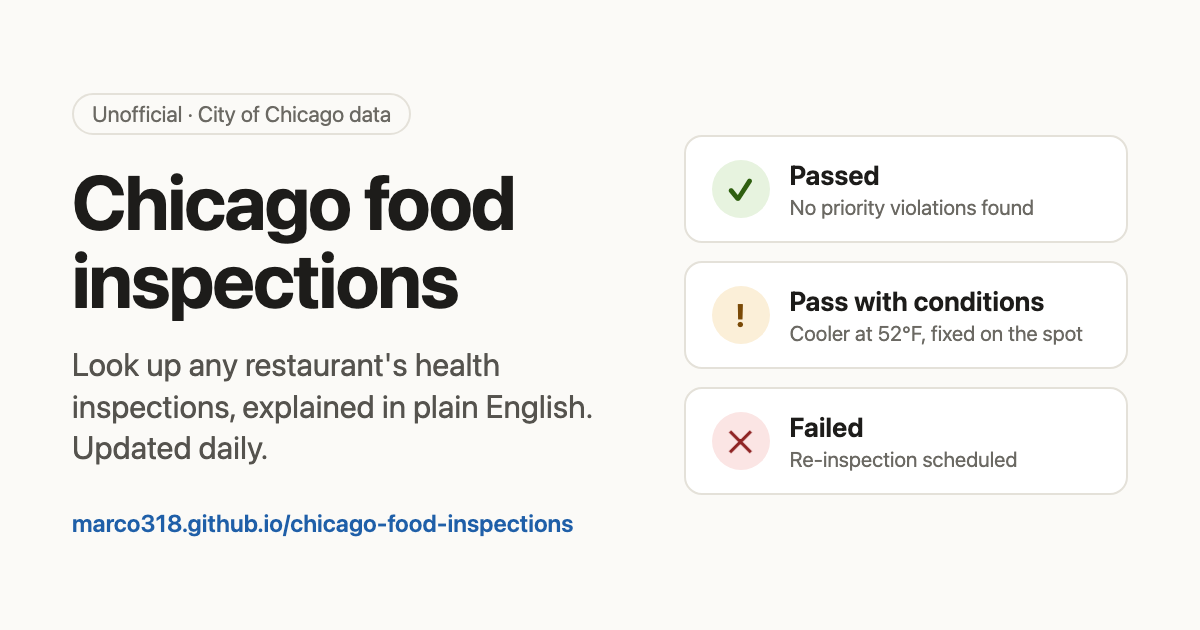
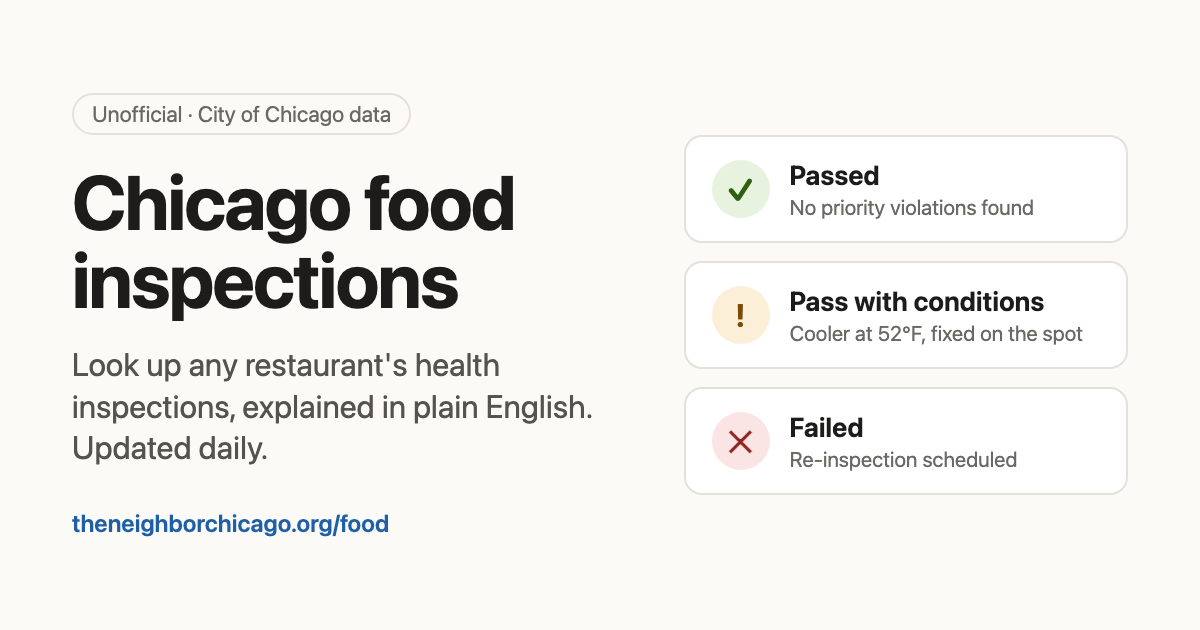
Move to theneighborchicago.org/food: site URL, preview card, repo links

Changed region(s): [[0.0617, 0.8143, 0.4933, 0.8444]]

diff --git a/site/index.html b/site/index.html
@@ -3,15 +3,15 @@
 <head>
   <meta charset="utf-8">
   <meta name="viewport" content="width=device-width, initial-scale=1">
-  <title>Chicago food inspections</title>
+  <title>Chicago food inspections · The Neighbor</title>
   <meta name="description" content="Look up any Chicago restaurant's health inspections, in plain English. Unofficial; data from the City of Chicago.">
   <!-- Link preview card (X, Threads, iMessage, KakaoTalk). Image source: scripts/og/og.html. Update URLs if the domain changes. -->
   <meta property="og:type" content="website">
   <meta property="og:site_name" content="Chicago food inspections">
   <meta property="og:title" content="Chicago food inspections, in plain English">
   <meta property="og:description" content="Look up any Chicago restaurant's health inspections, explained in plain English. Updated daily. Unofficial; data from the City of Chicago.">
-  <meta property="og:url" content="https://marco318.github.io/chicago-food-inspections/">
-  <meta property="og:image" content="https://marco318.github.io/chicago-food-inspections/og.png">
+  <meta property="og:url" content="https://theneighborchicago.org/food/">
+  <meta property="og:image" content="https://theneighborchicago.org/food/og.png">
   <meta property="og:image:width" content="1200">
   <meta property="og:image:height" content="630">
   <meta property="og:image:alt" content="Chicago food inspections: passed, pass with conditions and failed status cards">

diff --git a/site/app.js b/site/app.js
@@ -7,7 +7,7 @@ const SOURCE = "https://data.cityofchicago.org/Health-Human-Services/Food-Inspec
 // Feedback form (Tally). Hidden fields place_id / place_name / page are pre-filled from the link.
 // Empty -> falls back to GitHub issues.
 const FEEDBACK_FORM = "https://tally.so/r/4a79bo";
-const ISSUES = "https://github.com/marco318/chicago-food-inspections/issues/new";
+const ISSUES = "https://github.com/marco318/food/issues/new";
 const feedbackUrl = (p = null) => {
   if (!FEEDBACK_FORM) return ISSUES;
   const q = new URLSearchParams({ page: location.href });
@@ -296,7 +296,7 @@ function renderAbout() {
     </ul>
     <p>Found a mistake, own a business listed here, or have an idea? ${feedbackLink(null, "Send feedback")}. An email address is optional and only used to reply.</p>
     <p class="small muted">Privacy: no cookies, no accounts. We count anonymous page views and how often search is used (not what you type) to see whether this is useful. "Near me" uses your location only on your device.</p>
-    <p class="small muted">Code and method: <a href="https://github.com/marco318/chicago-food-inspections" target="_blank" rel="noopener">GitHub</a>.</p></div>`;
+    <p class="small muted">Code and method: <a href="https://github.com/marco318/food" target="_blank" rel="noopener">GitHub</a>.</p></div>`;
 }
 
 function notFound() { app.innerHTML = `<a class="back" href="#/">← Search</a><p>That page doesn't exist.</p>`; }

diff --git a/scripts/og/og.html b/scripts/og/og.html
@@ -18,7 +18,7 @@
     <div class="tag">Unofficial · City of Chicago data</div>
     <h1>Chicago food inspections</h1>
     <p>Look up any restaurant's health inspections, explained in plain English. Updated daily.</p>
-    <div class="url">marco318.github.io/chicago-food-inspections</div>
+    <div class="url">theneighborchicago.org/food</div>
   </div>
   <div class="right">
     <div class="card"><div class="ic ok">✓</div><div><div class="t">Passed</div><div class="s">No priority violations found</div></div></div>

diff --git a/scripts/10_export.py b/scripts/10_export.py
@@ -207,7 +207,7 @@ for r in real[real.posted > cut].itertuples():
 feed.sort(key=lambda f: (f["p"], f["fx"] is None, -RANK[f["k"]]), reverse=True)
 (OUT / "feed.json").write_text(json.dumps(feed, separators=(",", ":")))
 
-SITE = os.environ.get("SITE_URL", "https://marco318.github.io/chicago-food-inspections/")
+SITE = os.environ.get("SITE_URL", "https://theneighborchicago.org/food/")
 items = "".join(
     f"<item><title>{xml_escape(f['n'])}: {xml_escape(f['h'])}</title>"
     f"<link>{SITE}#/p/{f['id']}/i/{f['iid']}</link><guid isPermaLink=\"false\">{f['iid']}</guid>"
